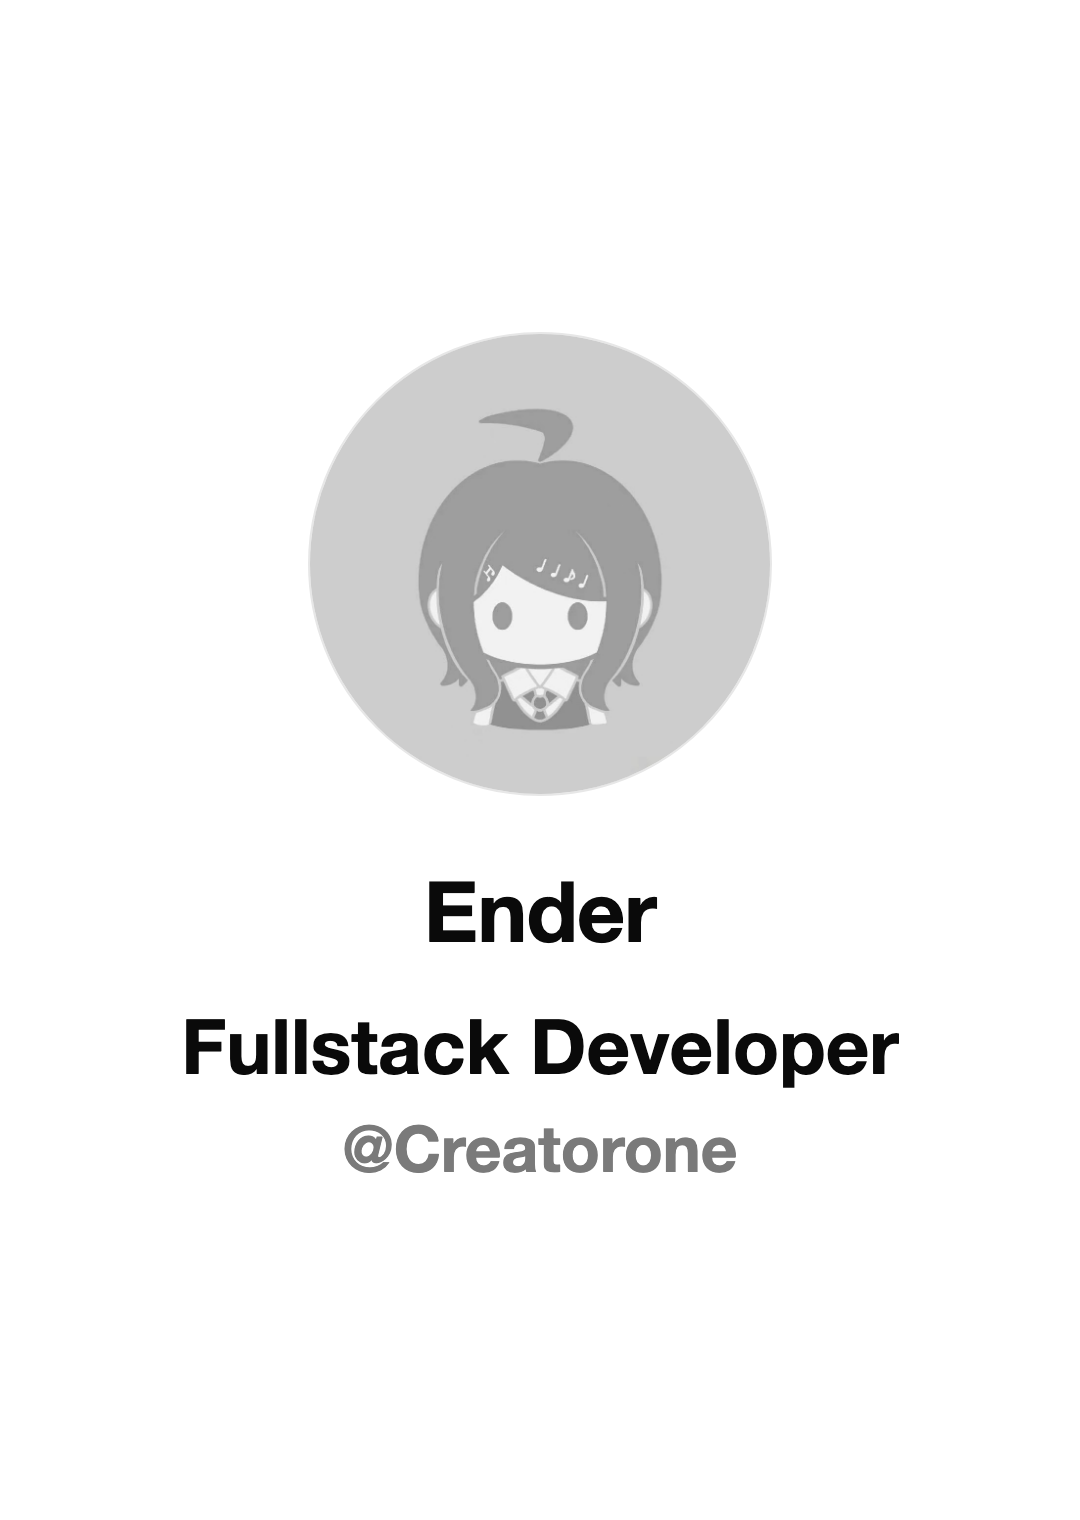
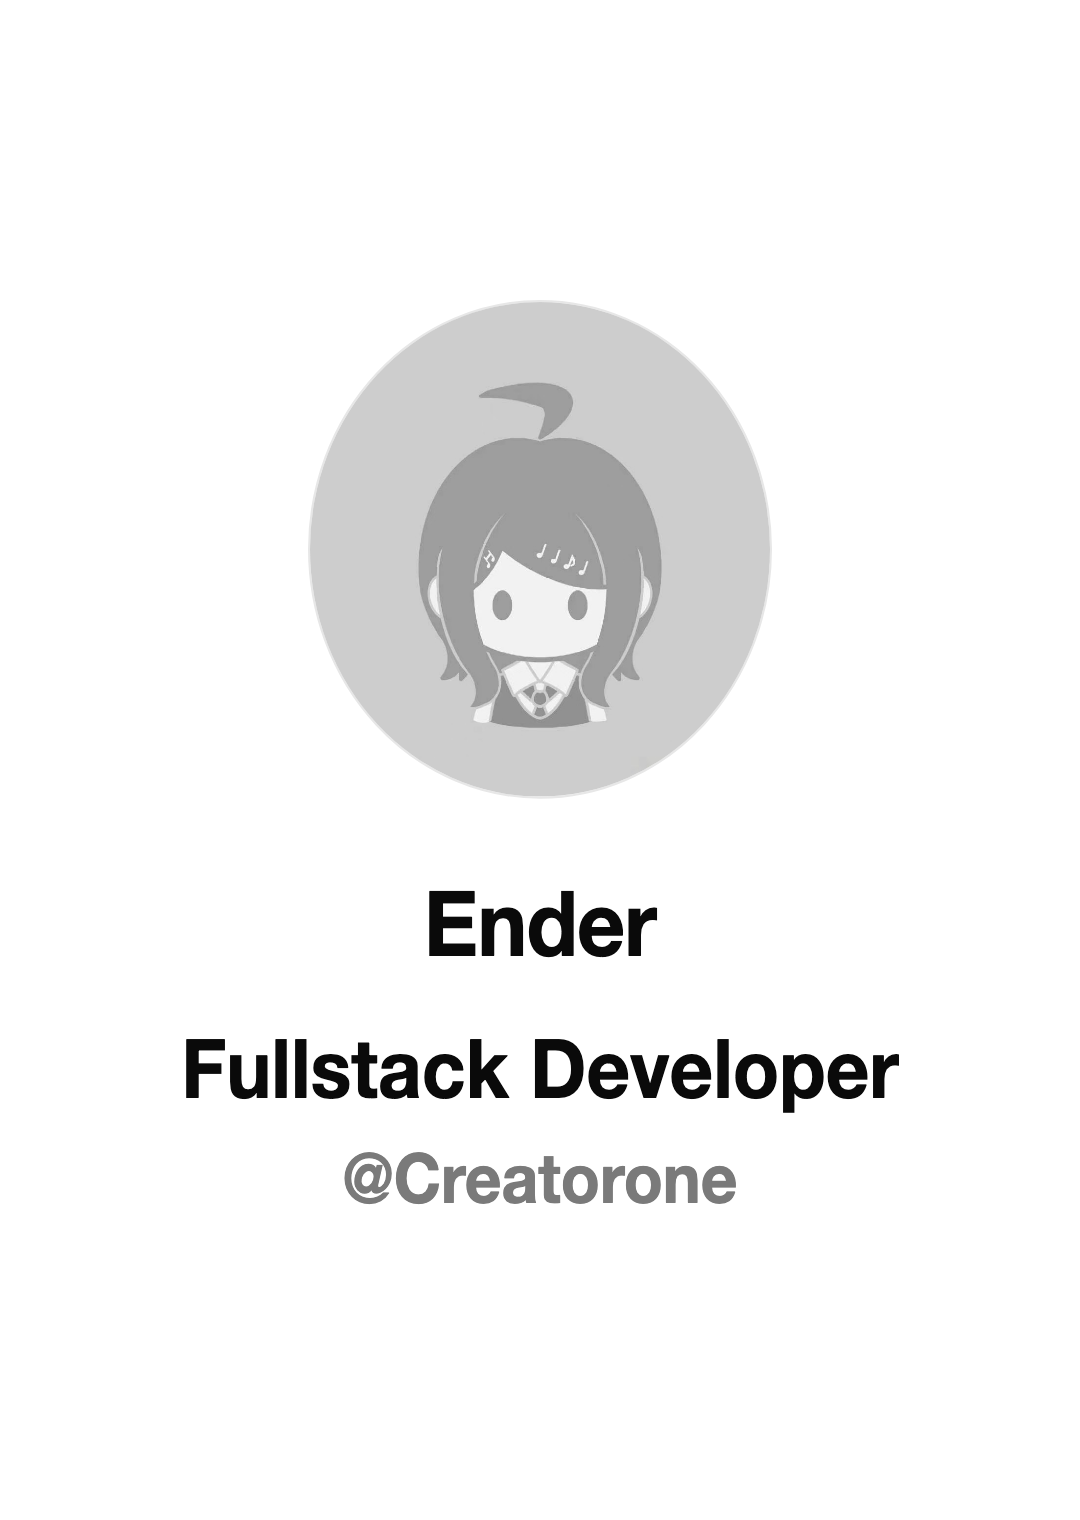
Lanyard: fix drag, card squish, and band proportions
- Restore dragging (the preventDefault on pointerdown was killing the drag)
- Pre-stretch the card-front image vertically to cancel the model's ~7.5%
  horizontal texture stretch (avatar/text were squished)
- Set band width to 1 so the react-bits atom texture isn't stretched

diff --git a/src/components/Lanyard/Lanyard.tsx b/src/components/Lanyard/Lanyard.tsx
@@ -331,8 +331,8 @@ function Band({
                 /* target may not support capture in passThrough mode */
               }
               // In passThrough mode the drag also reaches the page underneath, which
-              // would start a text selection and selection-auto-scroll. Suppress it.
-              e.nativeEvent?.preventDefault?.();
+              // would start a text selection and selection-auto-scroll. Suppress it
+              // via user-select (preventDefault here would break the drag itself).
               if (typeof document !== 'undefined') document.body.style.userSelect = 'none';
               pullStart.current = { x: e.clientX, y: e.clientY };
               drag(new THREE.Vector3().copy(e.point).sub(vec.copy(card.current.translation())));

diff --git a/src/components/Lanyard/GlobalLanyard.tsx b/src/components/Lanyard/GlobalLanyard.tsx
@@ -13,7 +13,7 @@ export default function GlobalLanyard() {
         gravity={[0, -40, 0]}
         frontImage="/card-front.png"
         backImage="/logos/creatorone-tile.png"
-        lanyardWidth={1.3}
+        lanyardWidth={1}
         passThrough
       />
     </div>
